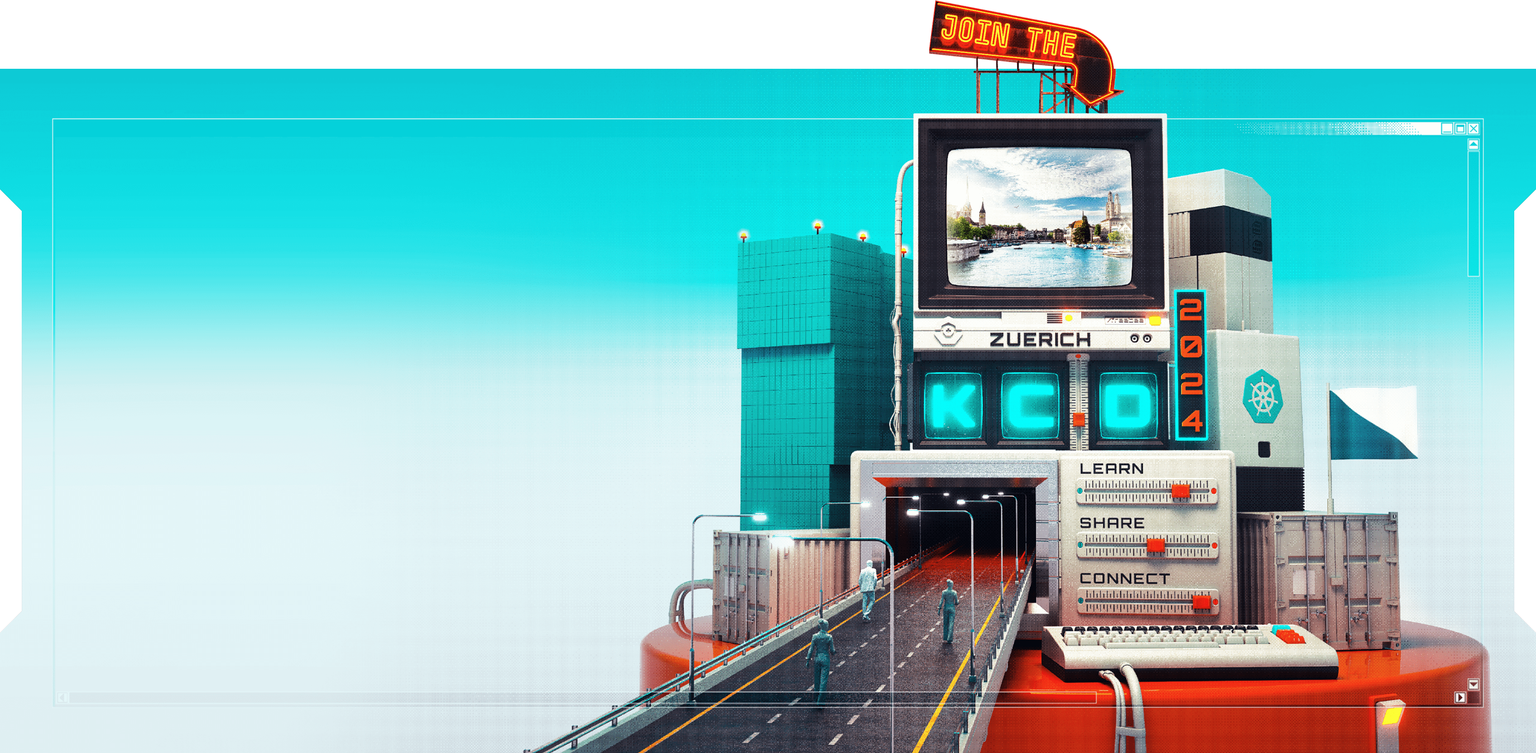
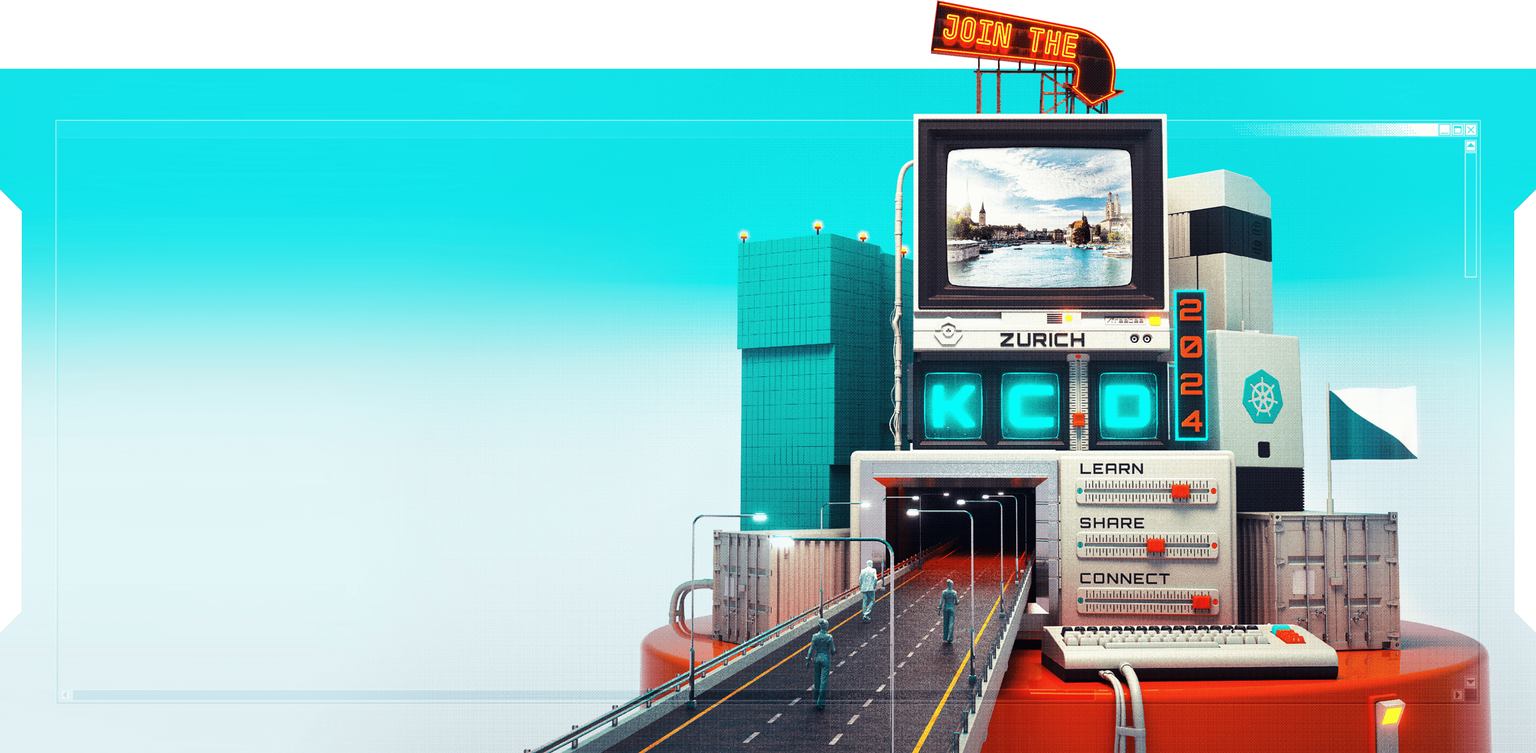
chore: update hero section

Changed region(s): [[0.0, 0.0, 1.0, 1.0]]

diff --git a/src/components/pages/home/hero/hero.jsx b/src/components/pages/home/hero/hero.jsx
@@ -4,7 +4,7 @@ import React from 'react';
 import Button from 'components/shared/button';
 
 const dateString = 'june 13th 2024';
-const title = 'KCD Zurich 2024';
+const title = 'KCD Zürich 2024';
 const description =
   'Experience the power of community at the Kubernetes Community Days in Zurich! When a diverse group of experts comes together to learn, network, and share knowledge on all things cloud native.';
 const buttonURL = 'mailto:milena@kcdzurich.ch';
@@ -32,7 +32,7 @@ const Hero = () => (
       </Button>
     </div>
     <StaticImage
-      className="pointer-events-none !absolute -top-[76px] left-1/2 -z-10 w-[1696px] -translate-x-1/2 lg:-top-[60px] lg:w-[1370px] md:-top-[48px] md:w-[1100px] xs:!hidden"
+      className="pointer-events-none !absolute -top-[76px] left-1/2 -z-10 w-[1696px] -translate-x-1/2 lg:!hidden"
       src="./images/hero-desktop.png"
       formats={['auto', 'webp']}
       width={1696}
@@ -41,11 +41,15 @@ const Hero = () => (
       alt="Hero illustration"
     />
     <StaticImage
-      className="pointer-events-none !absolute left-1/2 top-0 -z-10 !hidden h-[623px] w-full min-w-[360px] -translate-x-1/2 object-contain xs:!block"
+      className="pointer-events-none !absolute -top-[60px] left-1/2 -z-10 !hidden w-[1370px] -translate-x-1/2 lg:!block md:-top-[48px] md:w-[1100px] xs:!hidden"
+      src="./images/hero-tablet.png"
+      formats={['auto', 'webp']}
+      loading="eager"
+      alt="Tablet hero illustration"
+    />
+    <StaticImage
+      className="pointer-events-none !absolute left-1/2 top-0 -z-10 !hidden max-h-[623px] w-full min-w-[360px] -translate-x-1/2 xs:!block"
       src="./images/hero-mobile.jpg"
-      layout="fullWidth"
-      width={360}
-      height={623}
       loading="eager"
       alt="Mobile hero illustration"
     />
